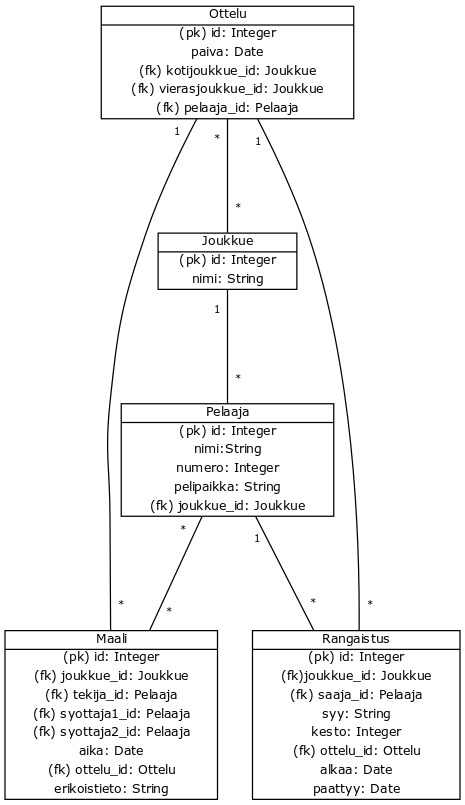
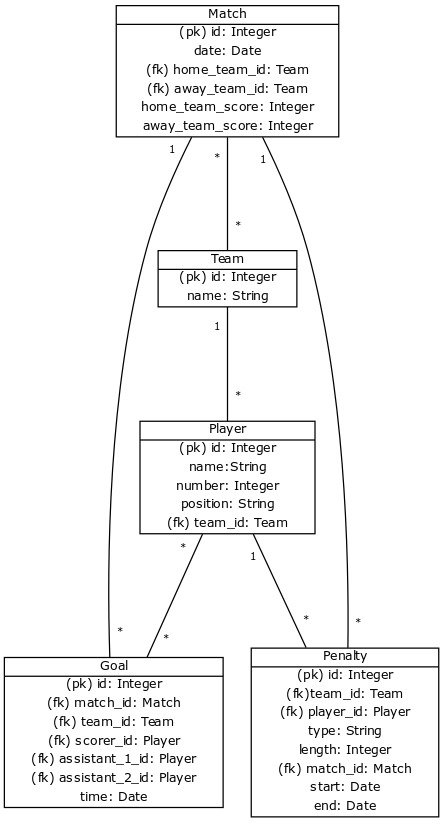
Dokumentaatio päivitys

Changed region(s): [[0.0, 0.0, 0.9977, 0.9938], [0.6163, 0.7143, 0.6456, 0.7453], [0.5869, 0.6832, 0.6163, 0.7143]]

diff --git a/dokumentaatio/userstories.md b/dokumentaatio/userstories.md
@@ -9,3 +9,4 @@
 - Käyttäjä voi vaihtaa pelaajan pelipaikkaa listauksen yhteydessä.
 - Käyttäjä voi lisätä ottelun: Ottelu päivä (kalenterivalikko), kotijoukkue ja vierasjoukkue (validointi kesken, ei voi olla sama joukkue)
 - Käyttäjä voi listata ottelut
+- Käyttäjä voi lisätä maalin joko koti- tai vierasjoukkueelle
